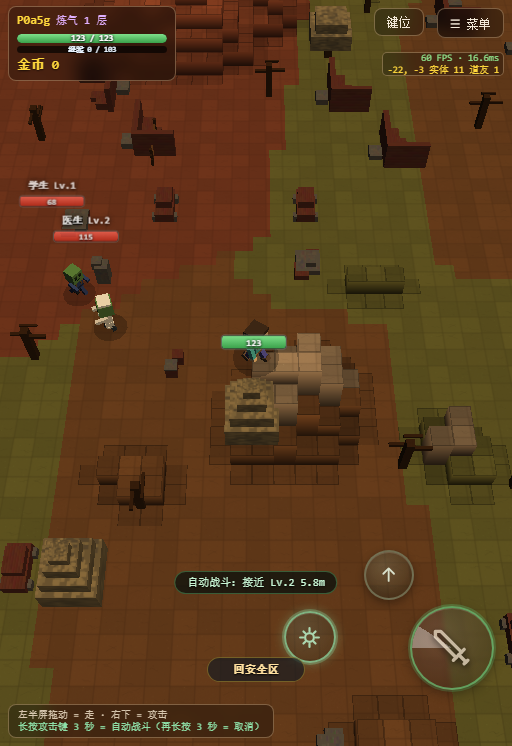
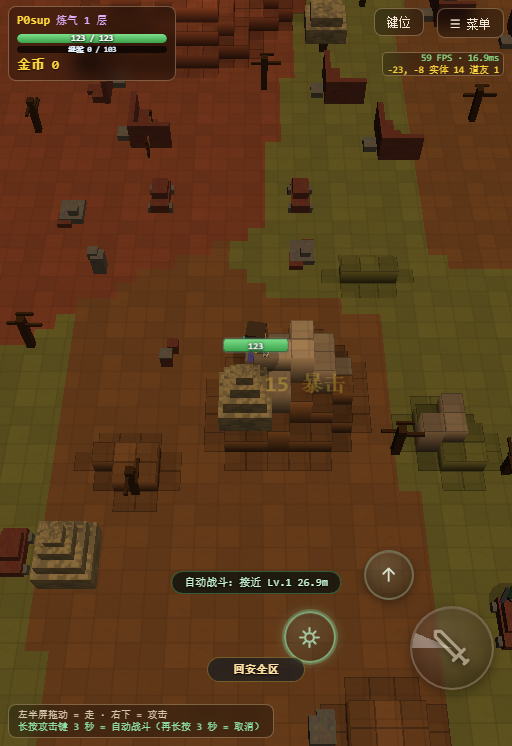
keep facing the target while backing away
The retreat looked like attacking backwards, and the cause is not the turn speed: the
movement code sets the facing from the input direction, and during a retreat the input points
away from the target. So the character turned its back and walked away, then turned to face
front again for the next swing, twice per attack.

Auto-combat now holds the facing while striking and retreating, so the movement code leaves
it alone and the character slides backwards while still looking at what it is fighting,
which is what a back-step should look like.

Approach and searching do not hold the facing - there the direction of travel and the
direction of interest are the same thing.

diff --git a/web/core/game.js b/web/core/game.js
@@ -5326,6 +5326,7 @@ function autoTick(dt) {
   if (AUTO.phase === 'find') { AUTO.phase = 'approach'; AUTO.t = 0; }
 
   if (AUTO.phase === 'approach') {
+    AUTO.faceLock = false;              // ★ 追的时候朝向跟着走就行 ✓
     P.yaw = autoFacing(dx, dz);
     if (d <= reach) {
       AUTO.phase = 'strike'; AUTO.t = 0; jx = 0; jy = 0; AUTO.setInput = true;
@@ -5350,6 +5351,7 @@ function autoTick(dt) {
     return;
   }
   if (AUTO.phase === 'strike') {
+    AUTO.faceLock = true;
     jx = 0; jy = 0; AUTO.setInput = true;
     P.yaw = autoFacing(dx, dz);
     atkHeld = (atkT < 0); AUTO.attacking = atkHeld;
@@ -5361,6 +5363,7 @@ function autoTick(dt) {
     return;
   }
   /* retreat：往远离目标的方向退 ✓ 这是"躲"的关键 ✓ */
+  AUTO.faceLock = true;                 // ★ 后撤时保持面朝目标 ✓ 不转身 ✓
   atkHeld = false; AUTO.attacking = false;
   var rx = -dx / (d || 1), rz = -dz / (d || 1);
   jx = rx; jy = rz; AUTO.setInput = true;
@@ -5450,7 +5453,15 @@ function frame(ts) {
     var nx = ix / Math.max(1, len), nz = iz / Math.max(1, len);
     MOV.tx = nx * _tspd;
     MOV.tz = nz * G.FLIP_Z * _tspd;
-    P.yaw = Math.atan2(nx, nz * G.FLIP_Z);      // ★ 朝向跟着【输入】走（转得快 ✓ 滑行时不会乱转）
+    /* ★★★ round367（用户："退后太快看起来像在攻击后面"）★★★
+       ★ 根因：这里用【输入方向】覆盖朝向 ✗
+         而自动战斗【后撤】时输入是"往后退"✗ 人就转身朝后走了 ✓
+         → 看着像背对着怪打 ✓
+       ★ 修：自动战斗锁朝向时（faceLock）跳过这里 ✗ 保持它自己设的朝向 ✓
+         → 后撤 = 【面朝怪、往后滑】✓ 和格斗游戏的后跳一样 ✓ */
+    if (!(typeof AUTO !== 'undefined' && AUTO.faceLock)) {
+      P.yaw = Math.atan2(nx, nz * G.FLIP_Z);   // ★ 朝向跟着【输入】走（滑行时不会乱转）
+    }
   } else {
     MOV.tx = 0; MOV.tz = 0;
   }

diff --git a/tools/smoke_p0.js b/tools/smoke_p0.js
@@ -172,7 +172,7 @@ const PW = 'abc123456';
   ].join(''));
   console.log('  自动跳: ' + jumpTest);
 
-  await ev('if (typeof AUTO !== "undefined") { AUTO.on = false; } return 1;');
+  await ev('if (typeof AUTO !== "undefined") { AUTO.on = false; AUTO.faceLock = false; } return 1;');
 
   const ripple = await ev([
     'var live = 0;',
